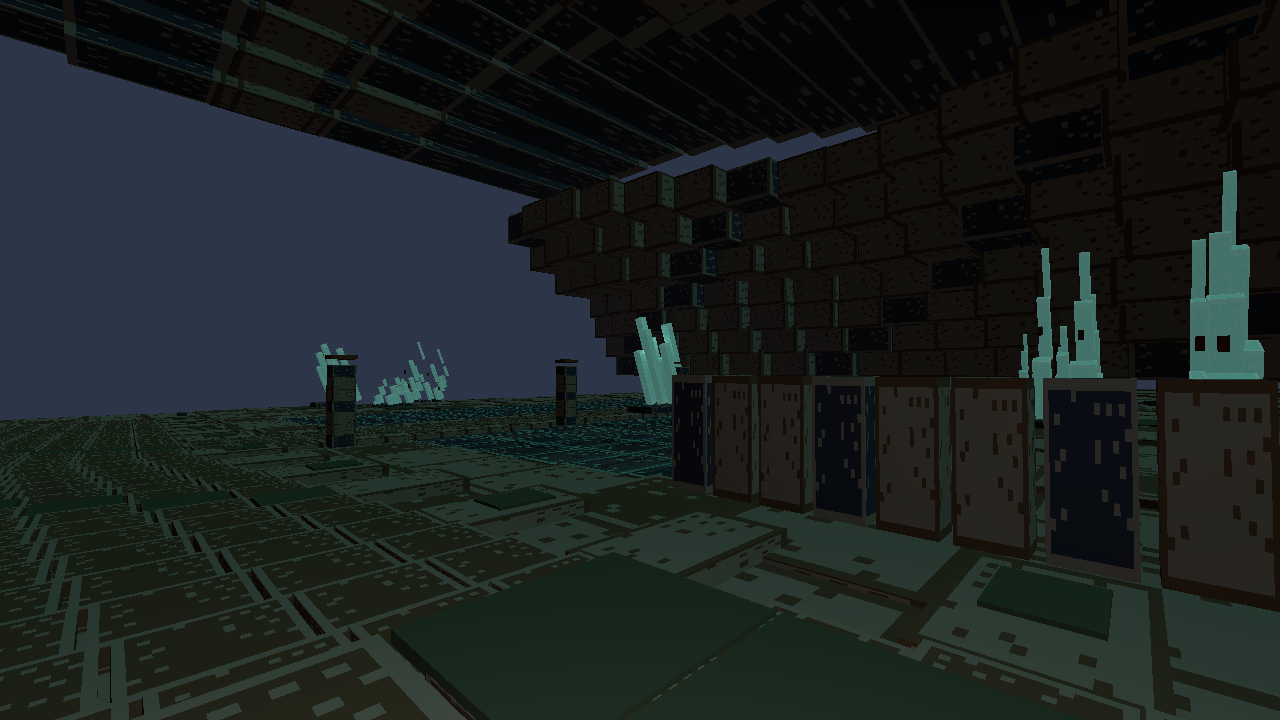
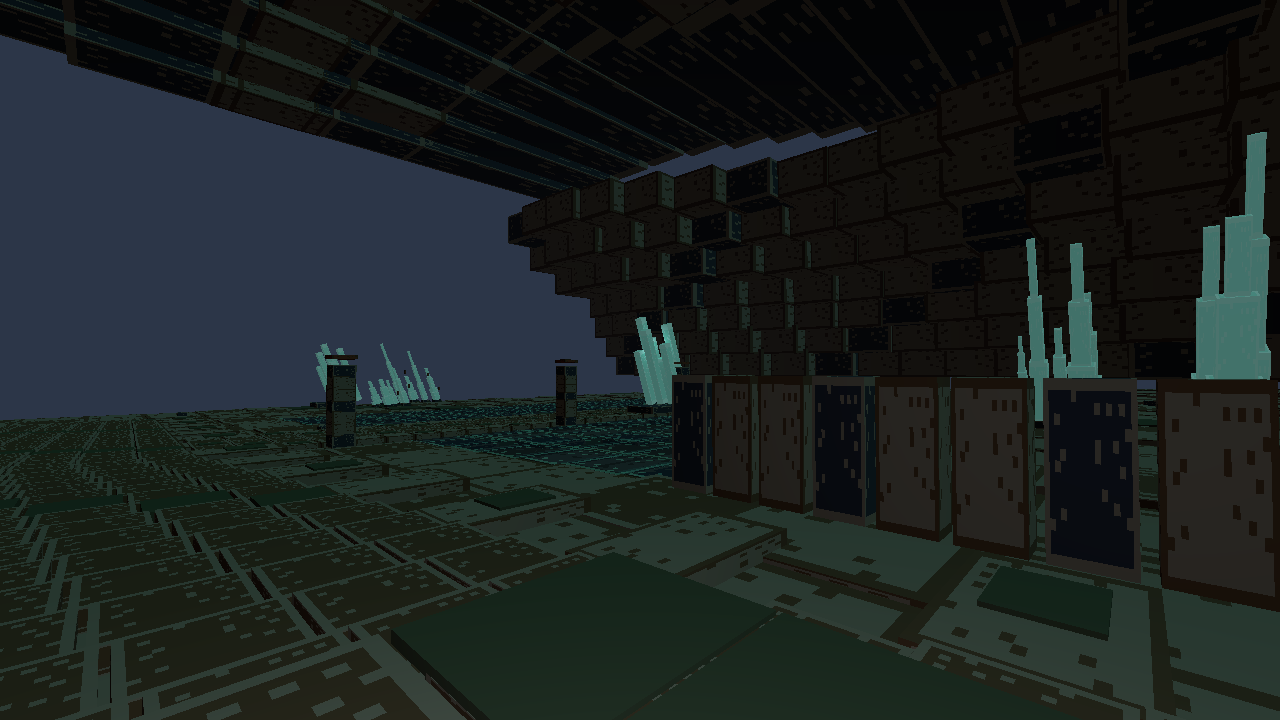
U-3 visual QA: reconnect tapered crystal tiers along the rotated growth axis

Changed region(s): [[0.9062, 0.1833, 1.0, 0.5194], [0.7812, 0.3361, 0.875, 0.5194], [0.2812, 0.4889, 0.375, 0.5806]]

diff --git a/tests/town-blockout-underground-crystal-cavern.test.ts b/tests/town-blockout-underground-crystal-cavern.test.ts
@@ -82,6 +82,32 @@ test('U-3 R2 all crystalline growth is tilted exactly +20° and grouped, 6 cold 
   assert.ok(!pieces.some(p => /placeholder|lorem|loot-grant|lore-text|spawn-monster/.test(p.name)));
 });
 
+test('U-3 tapered crystals have real continuous segment tips under the exact rotated +20° spine', () => {
+  const groups = new Map<string, Array<typeof crystalCavernArchitecture.pieces[number]>>();
+  for (const piece of crystalCavernArchitecture.pieces) {
+    const matched = piece.name.match(/^(u3\/crystals\/\d+\/spike-\d+)-tier-(\d)$/);
+    if (!matched) continue;
+    const entries = groups.get(matched[1]) ?? [];
+    entries.push(piece);
+    groups.set(matched[1], entries);
+  }
+  assert.ok(groups.size >= 140, 'all the flora must use three actual tapered segments');
+  const sin = Math.sin(CRYSTAL_CAVERN_CANT_RAD), cos = Math.cos(CRYSTAL_CAVERN_CANT_RAD);
+  for (const [name, raw] of groups) {
+    assert.equal(raw.length, 3, name);
+    const tiers = [...raw].sort((a,b)=>a.name.localeCompare(b.name));
+    for (let i=0;i<2;i++) {
+      const lower=tiers[i]!, upper=tiers[i+1]!;
+      const tipX = lower.center[0] - sin * lower.size[1] / 2;
+      const tipY = lower.center[1] + cos * lower.size[1] / 2;
+      const nextX = upper.center[0] + sin * upper.size[1] / 2;
+      const nextY = upper.center[1] - cos * upper.size[1] / 2;
+      assert.ok(Math.hypot(tipX-nextX,tipY-nextY) < .085,
+        name + ' crystal geometry split at tier ' + i);
+    }
+  }
+});
+
 test('U-3 R3 all supported path samples are clear to a standing 27cm avatar, graded gently to the source exit', () => {
   const f = fixture();
   const scene = mountUndergroundCrystalCavern(f.host);

diff --git a/tools/voxel-tavern/town-blockout/underground-crystal-cavern.ts b/tools/voxel-tavern/town-blockout/underground-crystal-cavern.ts
@@ -223,8 +223,11 @@ function makeCavern() {
       ] as const) {
         const segmentHeight = height * span;
         add('crystal', base + '/spike-' + t + '-tier-' + level,
-          cx + Math.sin(CRYSTAL_CAVERN_CANT_RAD) * height * frac,
-          h + height * frac + .23, cn,
+          // Three.js +Z rotation sends the segment's +Y towards -X.
+          // Centre points MUST track that same tilted spine: otherwise the
+          // three tier ends float apart despite identical 20° rotations.
+          cx - Math.sin(CRYSTAL_CAVERN_CANT_RAD) * height * frac,
+          h + Math.cos(CRYSTAL_CAVERN_CANT_RAD) * height * frac + .23, cn,
           (.4 + (t % 3) * .12) * scale, segmentHeight,
           (.42 + (t % 2) * .17) * scale,
           false, CRYSTAL_CAVERN_CANT_RAD);

diff --git a/docs/交流区/GPT/窗C-U3水晶洞全域七轮建模与审图-2026-11-21.md b/docs/交流区/GPT/窗C-U3水晶洞全域七轮建模与审图-2026-11-21.md
@@ -21,9 +21,9 @@
 
 ## 可复核的模型与运行证据
 
-- 几何审计：首轮 **3,713 个构件**，经浏览器逐图审查发现大片空白与晶柱过直，修补洞厅岩地、穹顶连续岩板和晶簇三级渐细后，总计 **7,002 个实体构件**，其中 289 块暗河面、主路 779 块、码头 161 块、满铺岩地 2,501 格，62 处晶簇，**163 个结构碰撞区域**，分成 **7 个 InstancedMesh 材质族**；第二轮真实 Chrome 4 视角 6–7 draw calls，80,556–84,024 triangles。
+- 几何审计：首轮 **3,713 个构件**，经浏览器逐图审查发现大片空白与晶柱过直，修补洞厅岩地、穹顶连续岩板和晶簇三级渐细后，总计 **7,002 个实体构件**；第二次放大审图发现三级晶体悬空，现已统一使用与 Three.js 旋转方向一致的倾斜轴，连通距离逐簇归零核验，其中 289 块暗河面、主路 779 块、码头 161 块、满铺岩地 2,501 格，62 处晶簇，**163 个结构碰撞区域**，分成 **7 个 InstancedMesh 材质族**；第二轮真实 Chrome 4 视角 6–7 draw calls，80,556–84,024 triangles。
 - 浏览器：本地已安装 Google Chrome、1280×720、非平滑 WebGL。独立四机位截图与 `review-stats.json` 同路径：`docs/交流区/GPT/窗C-U3晶洞建模审图-2026-11-21/`，依次 `1-entrance.png`、`2-grove.png`、`3-overlook.png`、`4-quay.png`。**首次截图已被实体地面/顶面/晶簇形态问题打回并按同机位覆盖为第二轮截图；最终浏览器错误数为零，单帧光源可见 4/6**。这是独立局部模型，使用 **测试域 review-only**，不是实际玩家入洞截图。
-- 定向 `node --import tsx --test tests/town-blockout-underground-crystal-cavern.test.ts` **6/6 PASS**，`node tools/run.mjs check` **PASS**，`node tools/run.mjs build` **PASS**（Vite 现有超大 chunk 警告仍在）。跨域合法性、受理脚点、渲染、贴图、同偏角、碰撞均检查。产品级手机帧率和默认主世界真实进入尚未实测。
+- 定向 `node --import tsx --test tests/town-blockout-underground-crystal-cavern.test.ts` **7/7 PASS**，`node tools/run.mjs check` **PASS**，`node tools/run.mjs build` **PASS**（Vite 现有超大 chunk 警告仍在）。跨域合法性、受理脚点、渲染、贴图、同偏角、碰撞均检查。产品级手机帧率和默认主世界真实进入尚未实测。
 - 如主窗要接入，需要正式水晶洞域 **domainId / origin / yaw / world height** 与矿侧 U-15 铁闸接收脚点、勇士城墙上落脚权威；不得从本机 `review-only` 坐标推正式位置。
 - **区块自洽**：石厅有完整起终边界、路径与层次；码头形制与矿洞轨道区分；全部物件无未授权文字，无所谓原住民解释/羊纹灯光（禁区核对通过）。
 
